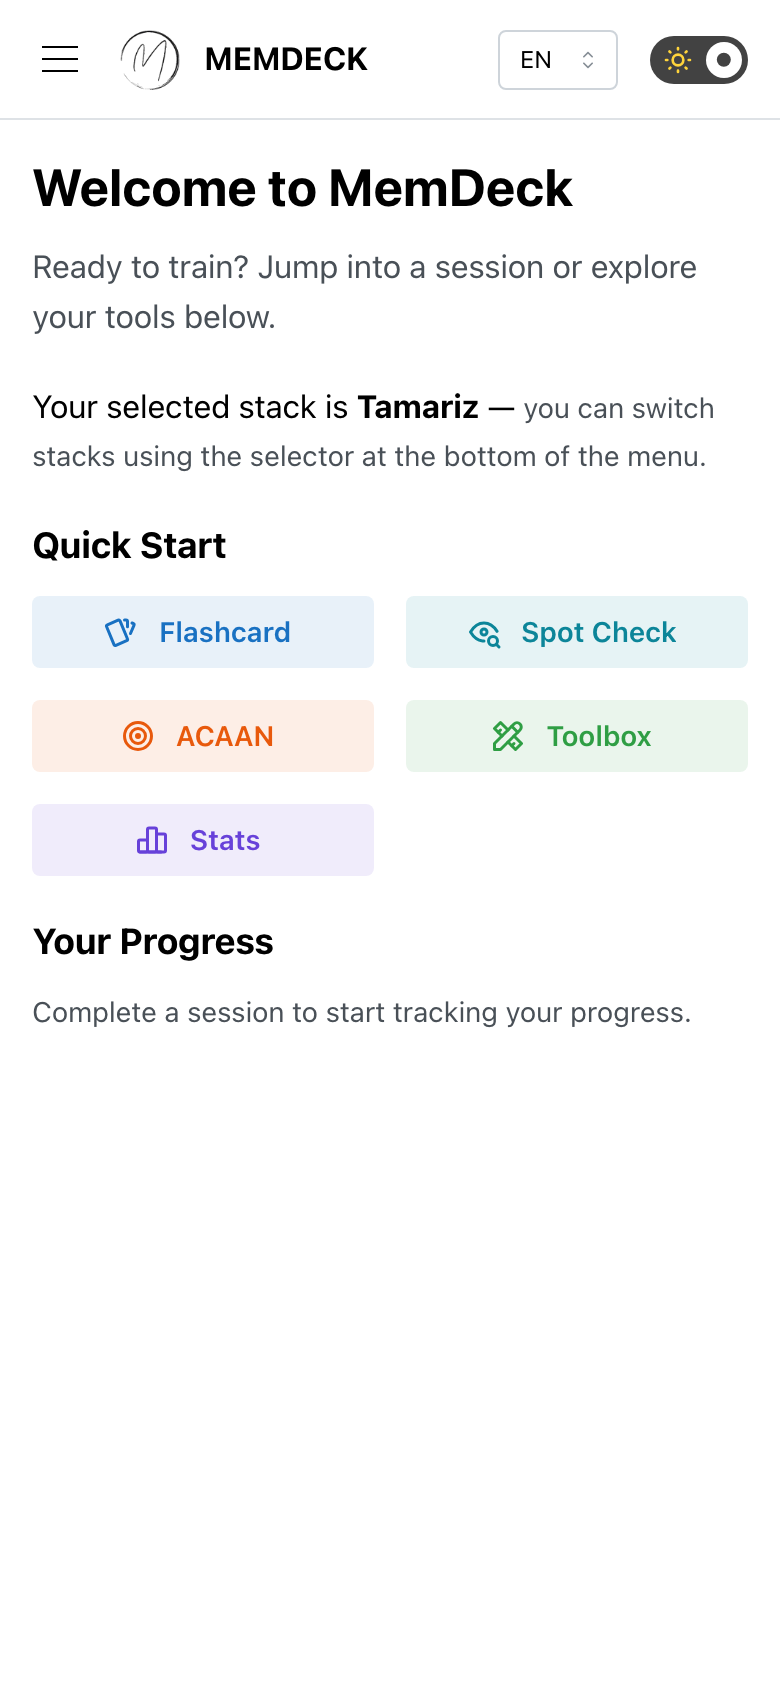
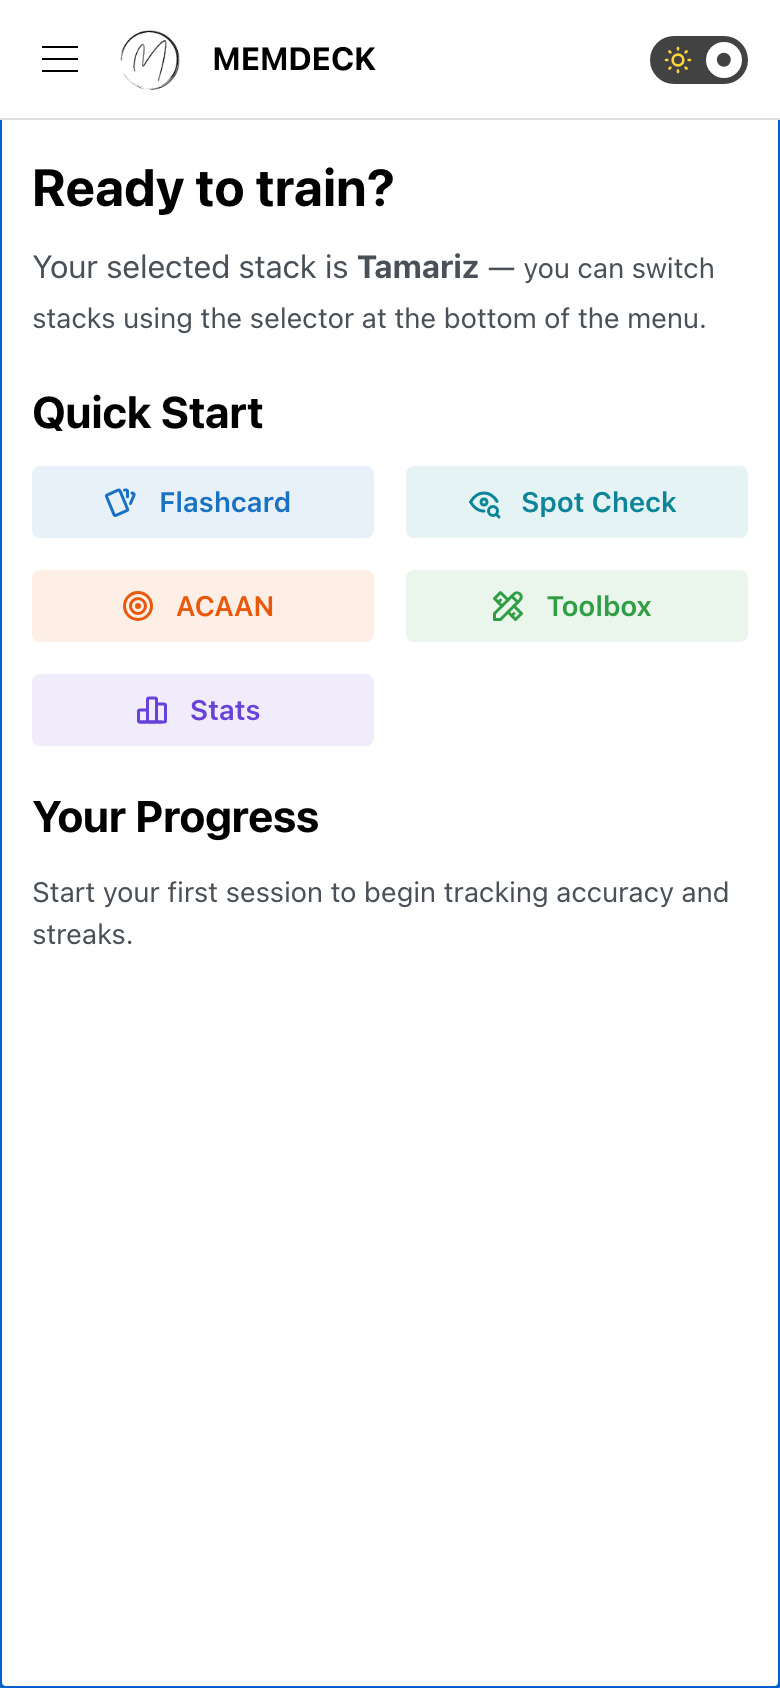
chore: add docs screenshot to generator and refresh images (#528)
Add docs/screenshot.png (desktop flashcard view) to the screenshot
generator by introducing an optional outputDir field on the Screenshot
interface. Refresh all existing screenshots to reflect recent homepage
and flashcard changes.

diff --git a/scripts/generate-screenshots.ts b/scripts/generate-screenshots.ts
@@ -18,13 +18,15 @@ const optimizePng = (filePath: string) => {
   execFileSync("optipng", ["-o7", "-quiet", filePath]);
 };
 
-const OUTPUT_DIR = join(import.meta.dirname, "..", "public", "screenshots");
+const ROOT_DIR = join(import.meta.dirname, "..");
+const DEFAULT_OUTPUT_DIR = join(ROOT_DIR, "public", "screenshots");
 const BASE_URL = "http://localhost:5173";
 
 interface Screenshot {
   deviceScaleFactor: number;
   height: number;
   name: string;
+  outputDir?: string;
   url: string;
   width: number;
 }
@@ -51,11 +53,26 @@ const SCREENSHOTS: Screenshot[] = [
     height: 800,
     deviceScaleFactor: 2,
   },
+  {
+    name: "screenshot",
+    url: "/flashcard",
+    width: 1280,
+    height: 800,
+    deviceScaleFactor: 2,
+    outputDir: join(ROOT_DIR, "docs"),
+  },
 ];
 
 const browser = await chromium.launch();
 
-for (const { name, url, width, height, deviceScaleFactor } of SCREENSHOTS) {
+for (const {
+  name,
+  url,
+  width,
+  height,
+  deviceScaleFactor,
+  outputDir,
+} of SCREENSHOTS) {
   const context = await browser.newContext({
     viewport: { width, height },
     deviceScaleFactor,
@@ -77,7 +94,7 @@ for (const { name, url, width, height, deviceScaleFactor } of SCREENSHOTS) {
   });
   await page.waitForTimeout(500);
 
-  const outputPath = join(OUTPUT_DIR, `${name}.png`);
+  const outputPath = join(outputDir ?? DEFAULT_OUTPUT_DIR, `${name}.png`);
   await page.screenshot({ path: outputPath });
   optimizePng(outputPath);
   console.log(`Captured ${outputPath}`);
